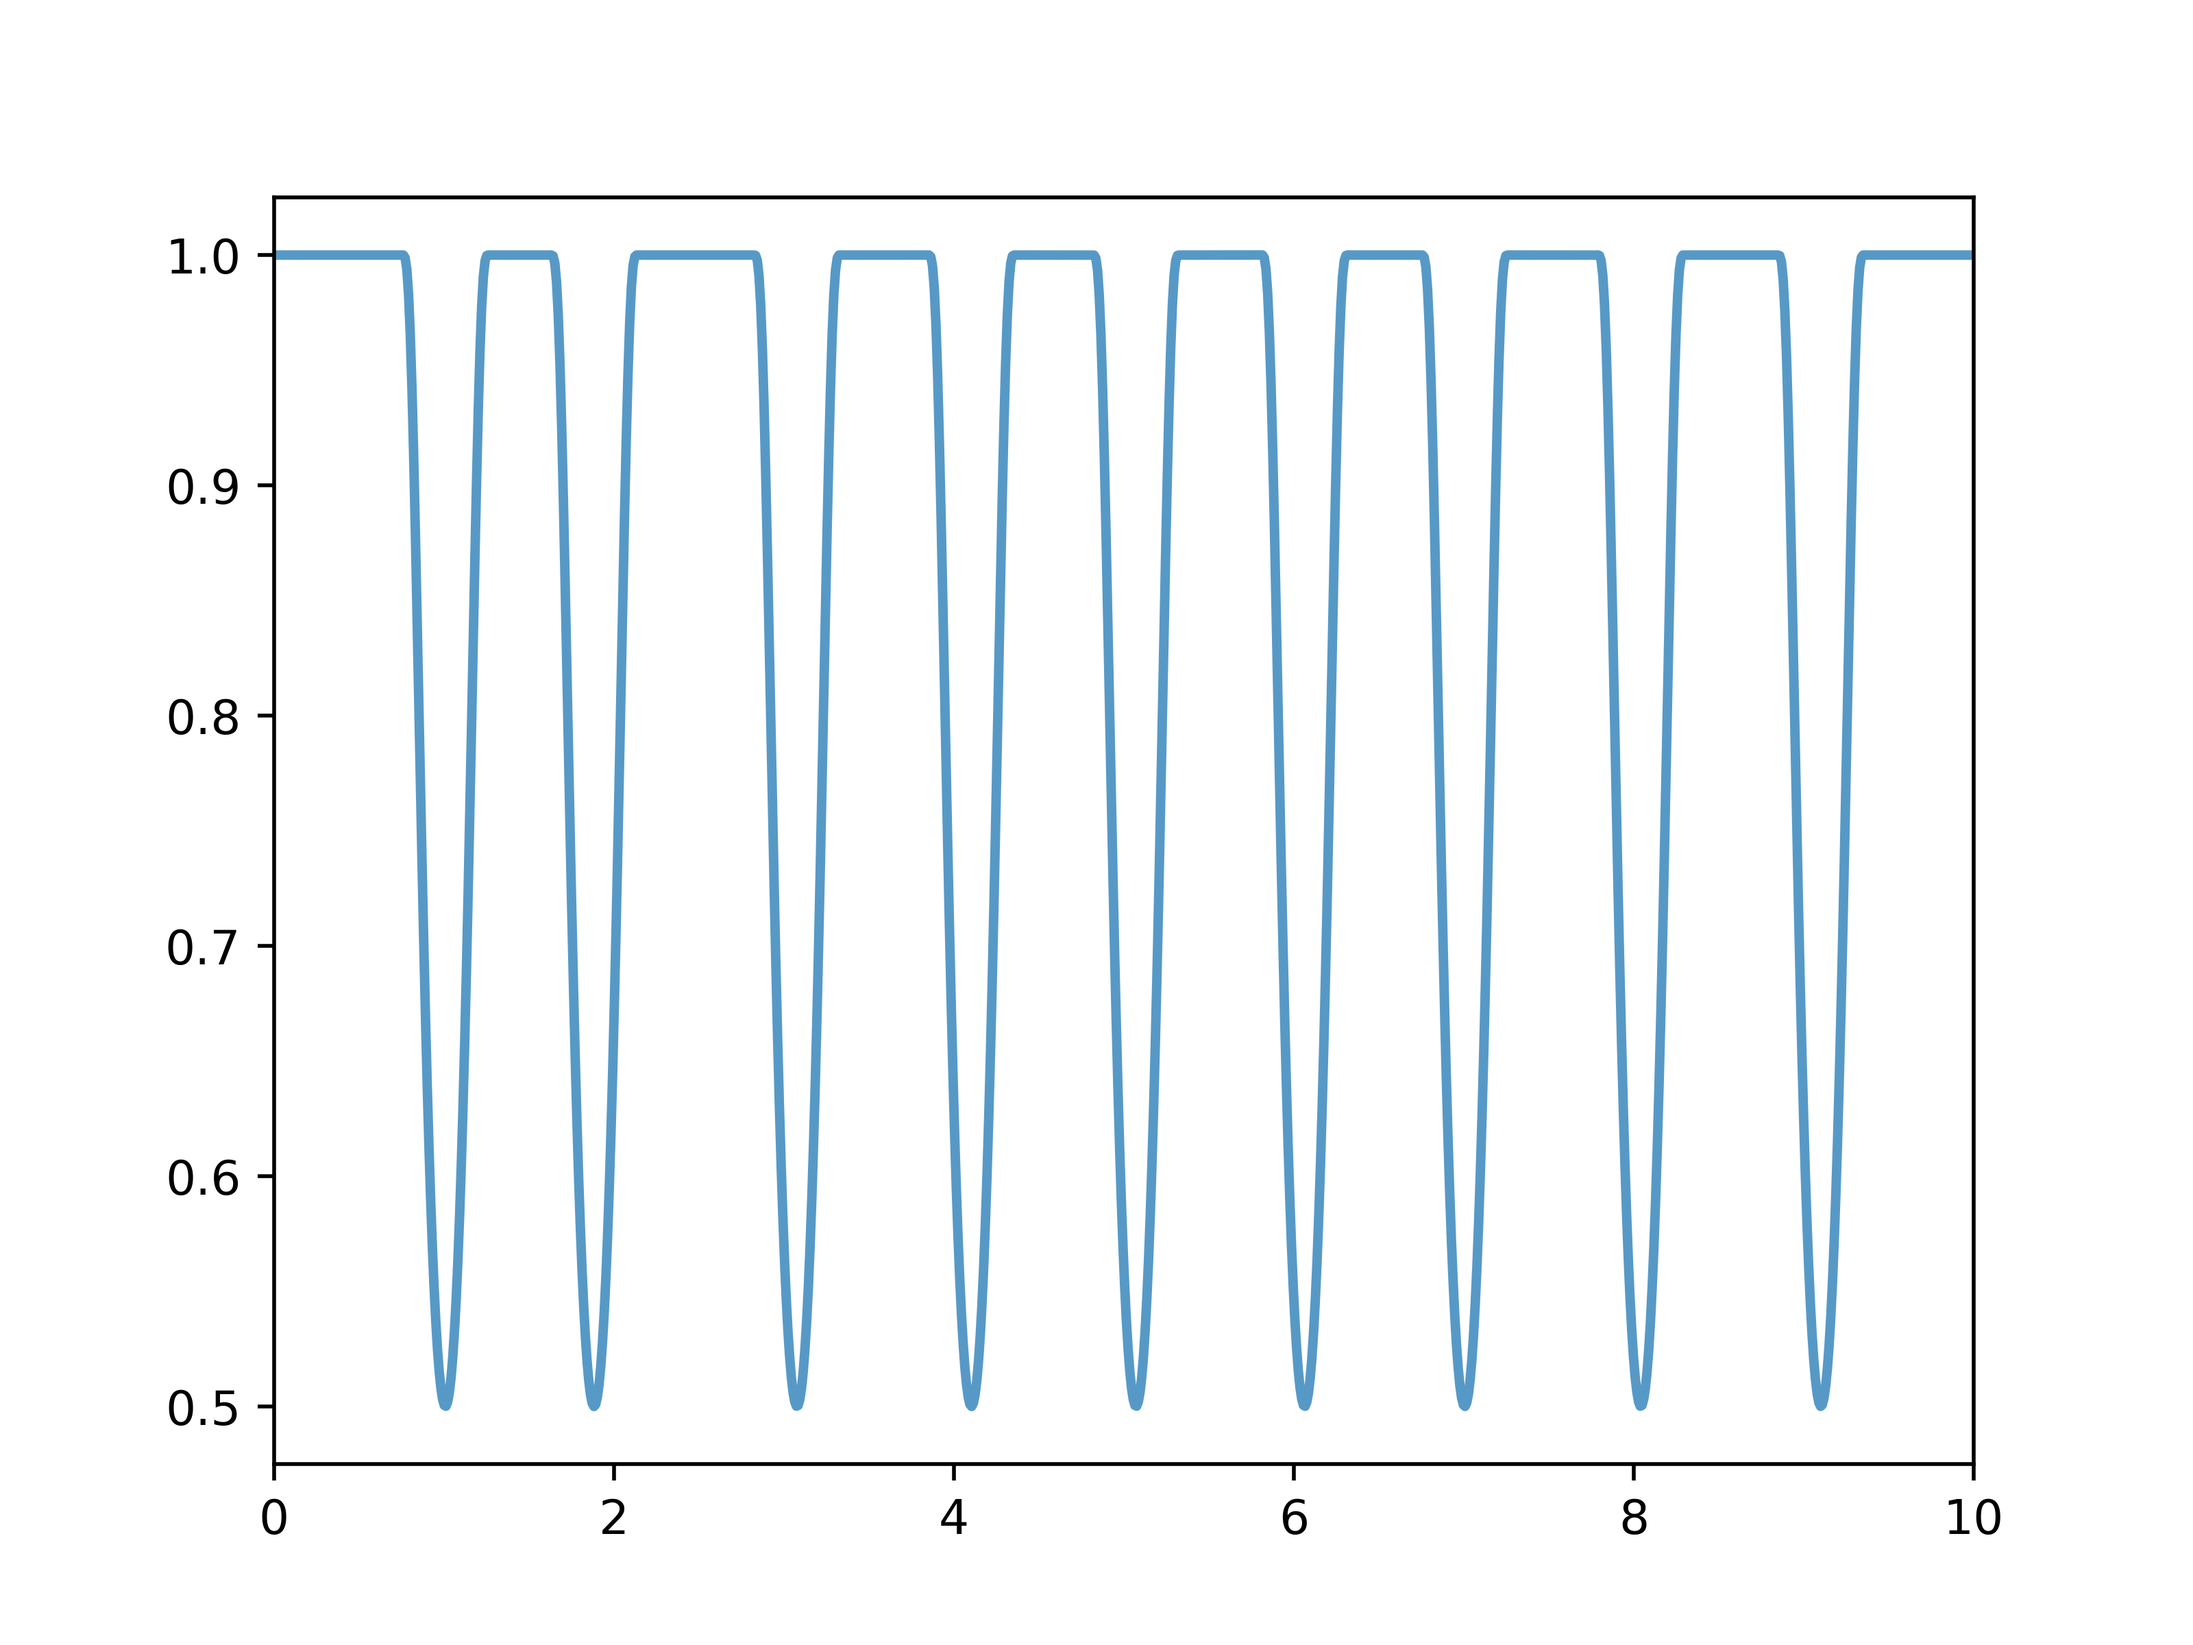
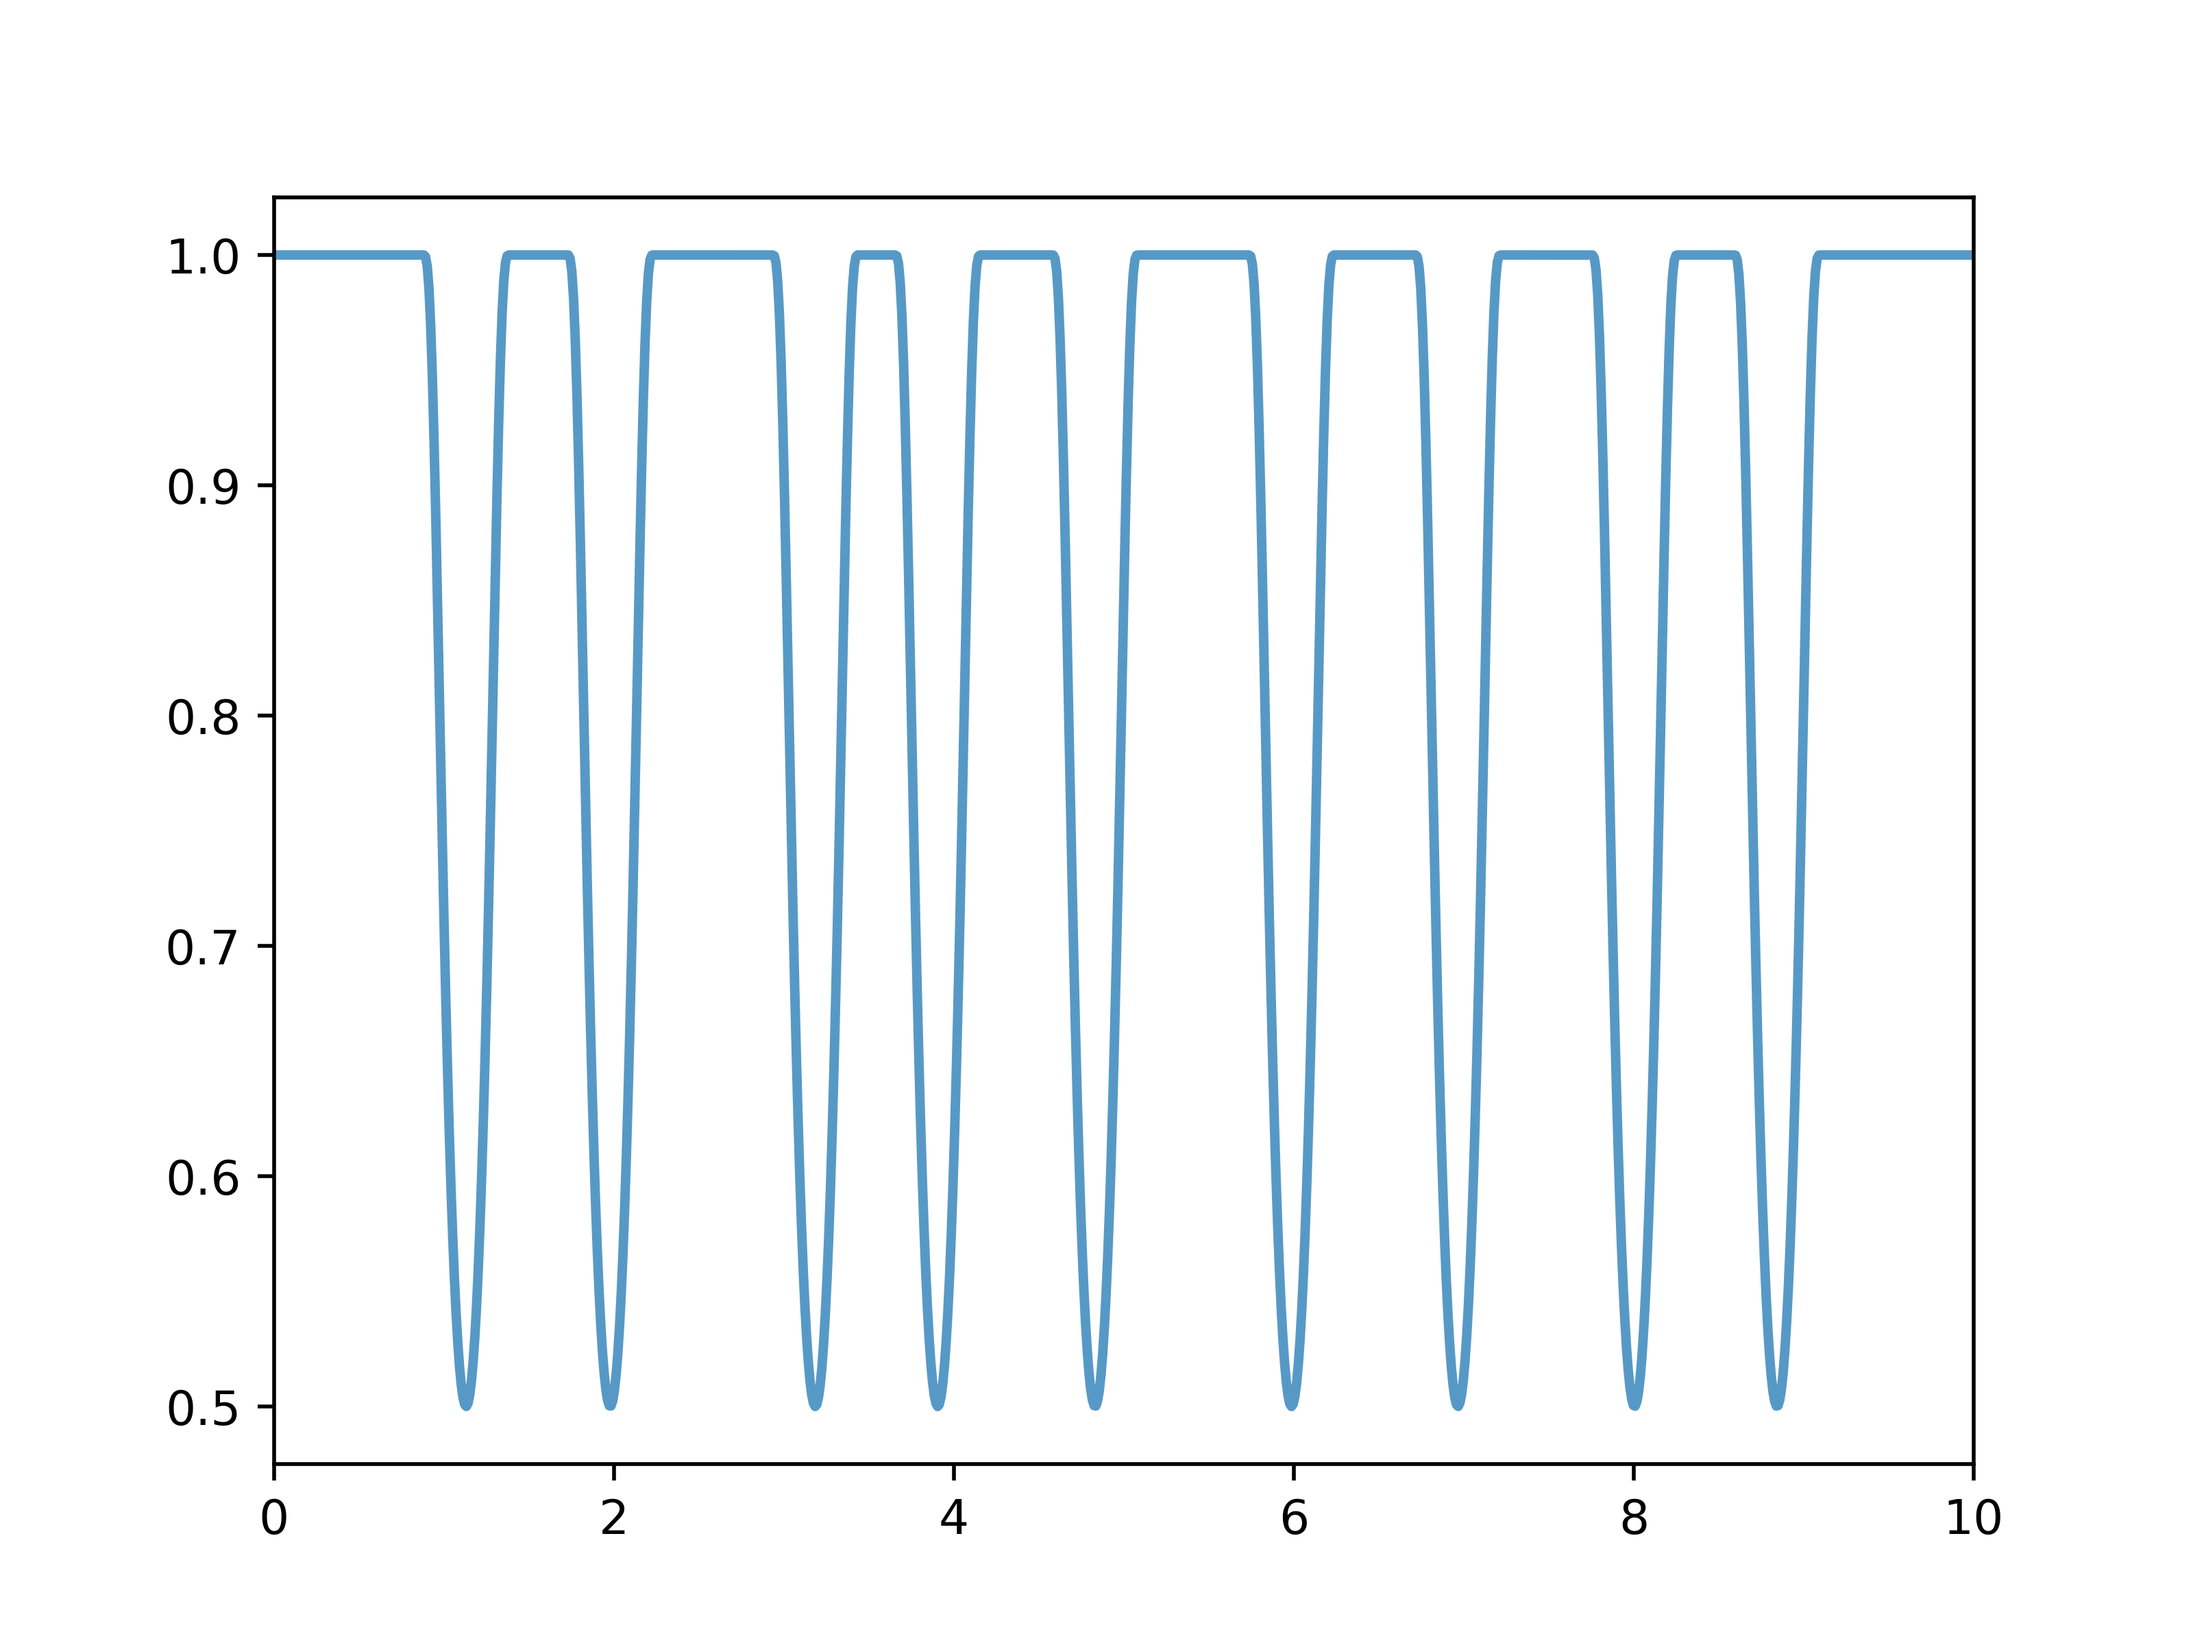
update

Changed region(s): [[0.3438, 0.1562, 0.6875, 0.875], [0.7188, 0.1562, 0.875, 0.875], [0.1562, 0.1562, 0.3125, 0.875]]

diff --git a/1d/test.py b/1d/test.py
@@ -51,9 +51,13 @@ for i in range(nn):
    x_center=i+1+dn[i]
    #f_sum=f_sum + conditional(abs(x-x_center)>s,0,6/8*(x-x_center)*(1-pow(x-x_center,2)/pow(s,2))**3-6/(8*pow(s,2))*(x-x_center)*(1-pow(x-x_center,2)/pow(s,2))**2*(3*pow(x-x_center,2)+1))
    f_sum=f_sum+ conditional(abs(x-x_center)>s,0,(1-pow(x-x_center,2)/pow(s,2))**3*(3*pow(x-x_center,2)+1))
-aelt='CG'
-adeg=3
 F = assemble(interpolate(f_sum, FunctionSpace(mesh, aelt, adeg)))
+aelt='CG'
+adeg=5
+#for i in range(nn):
+#   x_center=i+1+dn[i]
+#   f=conditional(abs(x-x_center)>s,0,(1-pow(x-x_center,2)/pow(s,2))**3*(3*pow(x-x_center,2)+1))
+#   F = F +  assemble(interpolate(f, FunctionSpace(mesh, aelt, adeg)))
 plt.clf()
 print("> evaluating f sum")
 pts = np.linspace(x0, x1, npts, endpoint=True)
